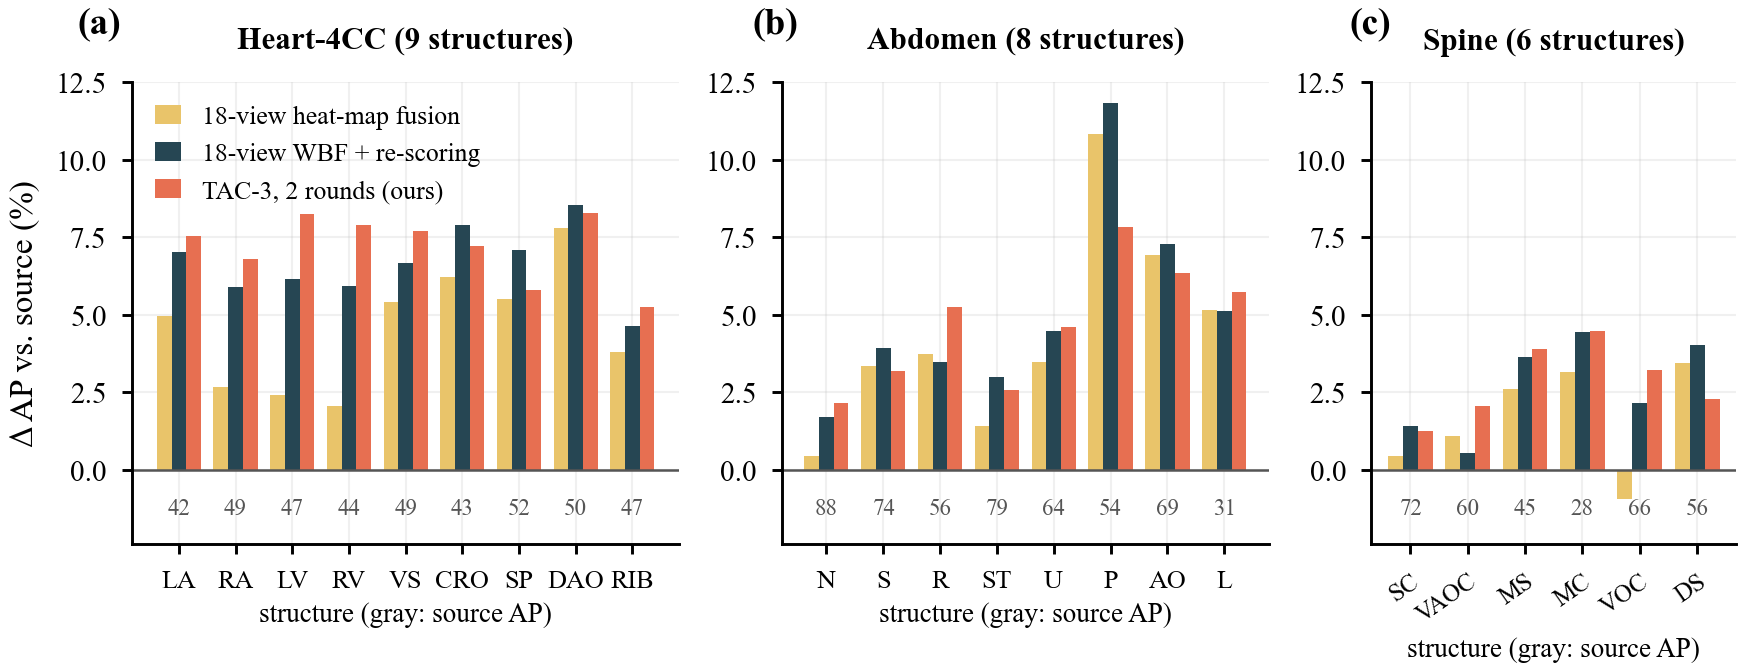
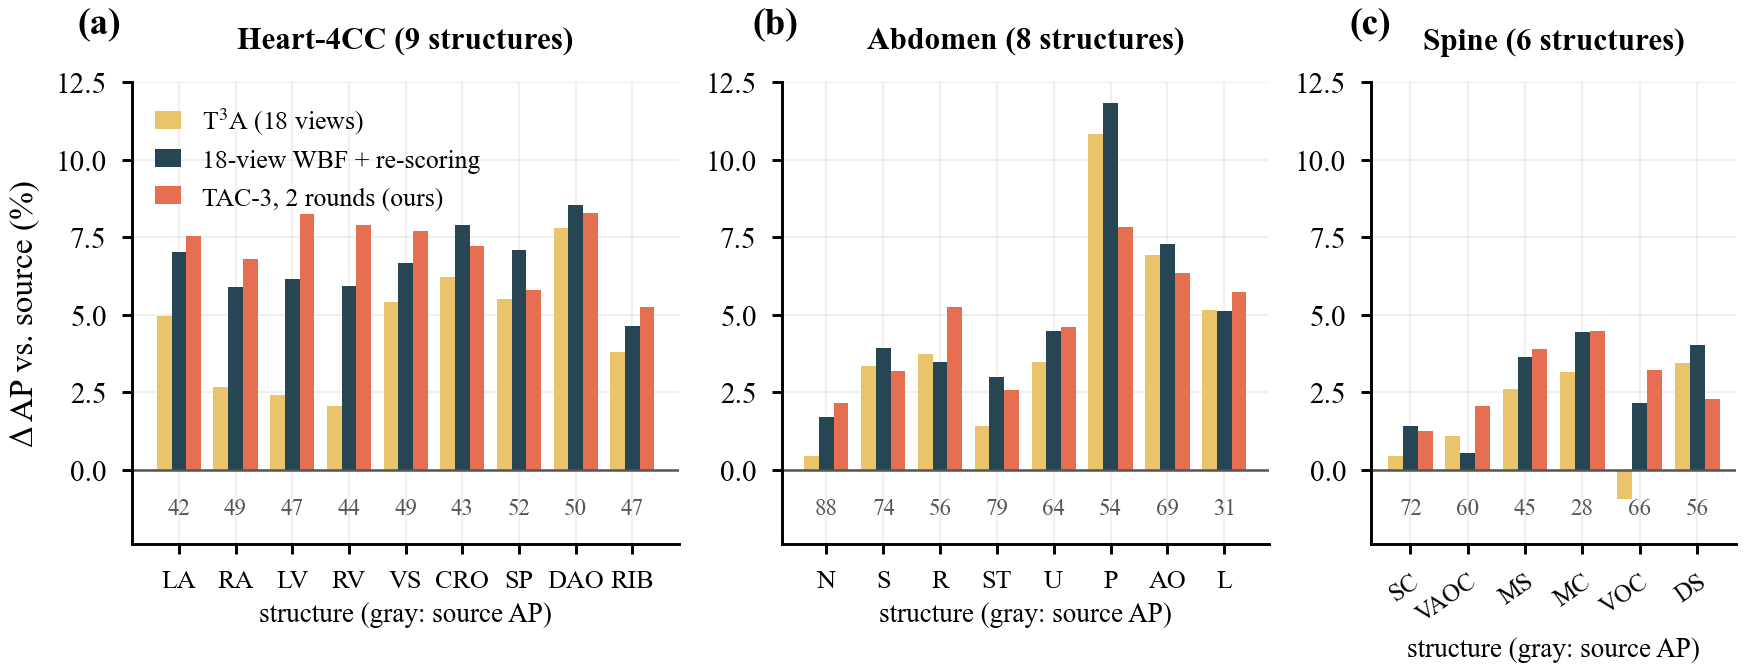
Cite the 18-view heat-map fusion baseline as T^3A
The Gaussian heat-map fusion used as a reference method is published as T^3A
(Pu et al., AAAI 2026). Table rows, figure legends, the README file list, the
NOTICE paragraph on baselines and two code comments now name it accordingly.
Figures 4-6 and eight table bodies are regenerated; only their labels change.

Changed region(s): [[0.0928, 0.149, 0.2785, 0.3279]]

diff --git a/paper_figures/gen_tables.py b/paper_figures/gen_tables.py
@@ -74,7 +74,7 @@ MAIN = [  # (row name in QC, label, views/updates, group)
     ("O-SFDA", "O-SFDA data acq.~\\cite{shi2024osfda}", "1 + train", "single"),
     ("VLOD-TTA objective", "VLOD-TTA objective~\\cite{belal2026vlod}", "1 + 1 step", "single"),
     ("BufferTTA", "BufferTTA~\\cite{kim2025buffer}", "1 + train", "single"),
-    ("Senior heatmap fusion (18 views)", "18-view heat-map fusion", "18", "multi"),
+    ("Senior heatmap fusion (18 views)", "T$^3$A~\\cite{pu2026t3a}", "18", "multi"),
     ("18-view WBF", "18-view WBF~\\cite{solovyev2021wbf}", "18", "multi"),
     ("18-view WBF + AR", "18-view WBF + re-scoring", "18", "multi"),
     ("CoTTA-det", "CoTTA-det~\\cite{wang2022cotta}", "18 + train", "multi"),
@@ -132,7 +132,7 @@ OTH = [
     ("O-SFDA data acq.~\\cite{shi2024osfda}", "1 + train", None, "O-SFDA", "O-SFDA"),
     ("VLOD-TTA objective~\\cite{belal2026vlod}", "1 + 1 step", None, "VLOD-TTA objective", "VLOD-TTA objective"),
     ("BufferTTA~\\cite{kim2025buffer}", "1 + train", None, "BufferTTA", "BufferTTA"),
-    ("18-view heat-map fusion", "18", "Senior heatmap fusion (18 views)", "Senior heatmap fusion (18 views)", "Senior heatmap fusion (18 views)"),
+    ("T$^3$A~\\cite{pu2026t3a}", "18", "Senior heatmap fusion (18 views)", "Senior heatmap fusion (18 views)", "Senior heatmap fusion (18 views)"),
     ("18-view WBF~\\cite{solovyev2021wbf}", "18", "18-view WBF", "18-view WBF", "18-view WBF"),
     ("18-view WBF + re-scoring", "18", "18-view WBF + AR", "18-view WBF + AR", "18-view WBF + AR"),
     ("CoTTA-det~\\cite{wang2022cotta}", "18 + train", "CoTTA-det", "CoTTA-det", "CoTTA-det"),
@@ -223,11 +223,11 @@ for T, name in [(R, "heart"), (RT, "rt"), (AB, "abdomen"), (SP, "spine")]:
 
 # ------------------------------------------------------------------ Table: fusion rule / views (test) + val ablations (seed 42)
 L = []
-for key, lab in [("TAC canonical view only (no fusion)", "canonical view only (no fusion)"), ("TAC fusion=heatmap (3 views)", "Gaussian heat-map fusion"), ("TAC fusion=NMS (3 views)", "concatenation + class-wise NMS"), ("TAC (WBF, 3 views)", "weighted boxes fusion (default)")]:
+for key, lab in [("TAC canonical view only (no fusion)", "canonical view only (no fusion)"), ("TAC fusion=heatmap (3 views)", "heat-map fusion of T$^3$A"), ("TAC fusion=NMS (3 views)", "concatenation + class-wise NMS"), ("TAC (WBF, 3 views)", "weighted boxes fusion (default)")]:
     r = F[key]; L.append(f"{lab} & 3 & {fmt(r['mean'], r['std'])} & {r['ap50']:.2f} & {'--' if 'WBF' in key else delta(r, F['TAC (WBF, 3 views)'])} \\\\")
     NUM[f"fusion::{key}"] = [r["mean"], r["std"], *paired(r, F["TAC (WBF, 3 views)"])]
 L.append("\\midrule")
-for key, lab in [("TAC 2 views (no flip)", "pass 1 + canonical view (no flip)"), ("TAC (WBF, 3 views)", "TAC-3"), ("TAC 7 views (+-15% scales)", "\\quad fixed bracket $\\pm15\\%$ (control)"), ("TAC 11 views (+-10/20/25% scales)", "TAC-11 ($-$20/$-$10/$+$10/$+$25\\%)"), ("18-view WBF + AR", "18-view WBF + re-scoring"), ("18-view heatmap (senior)", "18-view heat-map fusion")]:
+for key, lab in [("TAC 2 views (no flip)", "pass 1 + canonical view (no flip)"), ("TAC (WBF, 3 views)", "TAC-3"), ("TAC 7 views (+-15% scales)", "\\quad fixed bracket $\\pm15\\%$ (control)"), ("TAC 11 views (+-10/20/25% scales)", "TAC-11 ($-$20/$-$10/$+$10/$+$25\\%)"), ("18-view WBF + AR", "18-view WBF + re-scoring"), ("18-view heatmap (senior)", "T$^3$A~\\cite{pu2026t3a}")]:
     r = F[key]; v = r["views"] if r["views"] else 18
     L.append(f"{lab} & {v:.0f} & {fmt(r['mean'], r['std'])} & {r['ap50']:.2f} & {'--' if key == 'TAC (WBF, 3 views)' else delta(r, F['TAC (WBF, 3 views)'])} \\\\")
     NUM[f"views::{key}"] = [r["mean"], r["std"], r["ap50"], *paired(r, F["TAC (WBF, 3 views)"])]

diff --git a/paper_figures/gen_tables_reviewer.py b/paper_figures/gen_tables_reviewer.py
@@ -92,7 +92,7 @@ _BL = [("blind: 3 scales \\{600, 800, 1000\\}, WBF", "ss_fix3_wbf", "tac", None,
        ("blind: 3 scales $\\times$ flip, WBF + re-scoring", "ss_fix3f_wbf_ar", "u7_k17", None, 7),
        ("blind: 7 scales \\{500--1200\\}, WBF", "ss_fix7_wbf", "u7_k17", None, 7), ("blind: 7 scales, WBF + re-scoring", "ss_fix7_wbf_ar", "u7_k17", "blind7_ar", 7),
        ("TAC-7 (ours)", "u7_k17", None, "tac7", 7), ("TAC-11 (ours)", "tac_v11", None, "tac11", 18),
-       ("18-view WBF + re-scoring", "ss_all_flip_wbf_ar", None, "wbf18_ar", 18), ("18-view heat-map fusion", "heatmap18", None, "heatmap18", 18)]
+       ("18-view WBF + re-scoring", "ss_all_flip_wbf_ar", None, "wbf18_ar", 18), ("T$^3$A~\\cite{pu2026t3a}", "heatmap18", None, "heatmap18", 18)]
 _bb = {}
 for blk in (3, 7, 18):
     idx = [i for i, row in enumerate(_BL) if row[4] == blk]
@@ -183,7 +183,7 @@ for d, b in BOOT.items():
     # the seven-view configuration reported as TAC-7 is the quadrature bracket (tac7q) where its
     # bootstrap has been run, and the fixed bracket (tac7) otherwise
     _p7 = (lambda ref: ("tac7q-" + ref) if ("tac7q-" + ref) in b["bootstrap"] else ("tac7-" + ref))
-    for key, lab in [(_p7("source"), "TAC-7 vs.\\ source"), (_p7("heatmap18"), "TAC-7 vs.\\ HM-18"), (_p7("wbf18_ar"), "TAC-7 vs.\\ WBF-18+RS"), (_p7("cotta"), "TAC-7 vs.\\ CoTTA-det"), ("tac3_2r-wbf18_ar", "TAC-3 (2r) vs.\\ WBF-18+RS"), ("tac3_2r-cotta", "TAC-3 (2r) vs.\\ CoTTA-det")]:
+    for key, lab in [(_p7("source"), "TAC-7 vs.\\ source"), (_p7("heatmap18"), "TAC-7 vs.\\ T$^3$A"), (_p7("wbf18_ar"), "TAC-7 vs.\\ WBF-18+RS"), (_p7("cotta"), "TAC-7 vs.\\ CoTTA-det"), ("tac3_2r-wbf18_ar", "TAC-3 (2r) vs.\\ WBF-18+RS"), ("tac3_2r-cotta", "TAC-3 (2r) vs.\\ CoTTA-det")]:
         v = b["bootstrap"][key]; x, y = key.split("-"); dd = b["dedup_ap"]
         L.append(f"{lab} & ${v['point']:+.2f}$ & $[{v['ci95'][0]:+.2f}, {v['ci95'][1]:+.2f}]$ & ${dd[x]['dedup_mean'] - dd[y]['dedup_mean']:+.2f}$ & {('<0.001' if v['p_le_0'] < 0.001 else format(v['p_le_0'], '.3f'))} \\\\")
         NUM[f"boot::{d}::{key}"] = {**v, "dedup_diff": dd[x]["dedup_mean"] - dd[y]["dedup_mean"], "per_dir": None}

diff --git a/paper_figures/gen_fig5_fusion.py b/paper_figures/gen_fig5_fusion.py
@@ -12,7 +12,7 @@ gs = fig.add_gridspec(1, 3, width_ratios=[1.15, 1.0, 1.85], wspace=0.35)
 
 # (a) fusion rule
 ax = fig.add_subplot(gs[0])
-items = [("TAC canonical view only (no fusion)", "no\nfusion"), ("TAC fusion=heatmap (3 views)", "heat-\nmap"), ("TAC fusion=NMS (3 views)", "NMS"), ("TAC (WBF, 3 views)", "WBF\n(ours)"), ("18-view heatmap (senior)", "18-view\nheat-\nmap")]
+items = [("TAC canonical view only (no fusion)", "no\nfusion"), ("TAC fusion=heatmap (3 views)", "heat-\nmap"), ("TAC fusion=NMS (3 views)", "NMS"), ("TAC (WBF, 3 views)", "WBF\n(ours)"), ("18-view heatmap (senior)", "T$^3$A,\n18\nviews")]
 vals = [R[k]["mean"] for k, _ in items]; err = [R[k]["std"] for k, _ in items]
 cols = [BASE, BASE, BASE, OURS, C["gold"]]
 b = ax.bar(range(5), vals, 0.62, color=cols, yerr=err, error_kw=dict(lw=0.6, capsize=2, ecolor=C["ink2"]))
@@ -29,7 +29,7 @@ ax = fig.add_subplot(gs[1])
 pts = [("TAC 2 views (no flip)", 2), ("TAC (WBF, 3 views)", 3), ("TAC 7 views (+-15% scales)", 7), ("TAC 11 views (+-10/20/25% scales)", 11)]
 xs = [v for _, v in pts]; ys = [R[k]["mean"] for k, _ in pts]; es = [R[k]["std"] for k, _ in pts]
 ax.errorbar(xs, ys, yerr=es, color=OURS, marker="o", ms=4.5, lw=1.2, capsize=2, elinewidth=0.6, label="TAC (ours)", zorder=4)
-for k, lab, col, mk in [("18-view WBF + AR", "18-view WBF + re-scoring", C["teal"], "H"), ("18-view WBF", "18-view WBF", C["teal"], "p"), ("18-view heatmap (senior)", "18-view heat-map", C["gold"], "h")]:
+for k, lab, col, mk in [("18-view WBF + AR", "18-view WBF + re-scoring", C["teal"], "H"), ("18-view WBF", "18-view WBF", C["teal"], "p"), ("18-view heatmap (senior)", "T$^3$A (18 views)", C["gold"], "h")]:
     ax.errorbar(18, R[k]["mean"], yerr=R[k]["std"], color=col, marker=mk, ms=5, ls="none", capsize=2, elinewidth=0.6, label=lab, mfc=col if "AR" in k or "heat" in k else "white")
 # blind fixed multi-scale ensembles with the same number of views (reviewer experiment C; results/reviewer/reviewer_summary.json)
 import json as _json, os as _os

diff --git a/paper_figures/tables/tab_bootstrap.tex b/paper_figures/tables/tab_bootstrap.tex
@@ -1,20 +1,20 @@
 \multicolumn{5}{l}{\textit{Heart-4CC (545 clusters / 576 images)}}\\
 TAC-7 vs.\ source & $+8.22$ & $[+7.74, +8.68]$ & $+8.26$ & <0.001 \\
-TAC-7 vs.\ HM-18 & $+3.68$ & $[+3.28, +4.03]$ & $+3.66$ & <0.001 \\
+TAC-7 vs.\ T$^3$A & $+3.68$ & $[+3.28, +4.03]$ & $+3.66$ & <0.001 \\
 TAC-7 vs.\ WBF-18+RS & $+1.58$ & $[+1.20, +1.90]$ & $+1.59$ & <0.001 \\
 TAC-7 vs.\ CoTTA-det & $+2.33$ & $[+1.99, +2.65]$ & $+2.33$ & <0.001 \\
 TAC-3 (2r) vs.\ WBF-18+RS & $+0.55$ & $[+0.16, +0.84]$ & $+0.56$ & 0.004 \\
 TAC-3 (2r) vs.\ CoTTA-det & $+1.30$ & $[+0.96, +1.61]$ & $+1.30$ & <0.001 \\
 \multicolumn{5}{l}{\textit{Abdomen (811 clusters / 813 images)}}\\
 TAC-7 vs.\ source & $+5.78$ & $[+5.36, +6.09]$ & $+5.78$ & <0.001 \\
-TAC-7 vs.\ HM-18 & $+1.36$ & $[+1.07, +1.63]$ & $+1.36$ & <0.001 \\
+TAC-7 vs.\ T$^3$A & $+1.36$ & $[+1.07, +1.63]$ & $+1.36$ & <0.001 \\
 TAC-7 vs.\ WBF-18+RS & $+0.68$ & $[+0.42, +0.94]$ & $+0.67$ & <0.001 \\
 TAC-7 vs.\ CoTTA-det & $+0.51$ & $[+0.29, +0.79]$ & $+0.51$ & 0.001 \\
 TAC-3 (2r) vs.\ WBF-18+RS & $-0.39$ & $[-0.67, -0.09]$ & $-0.40$ & 0.997 \\
 TAC-3 (2r) vs.\ CoTTA-det & $-0.56$ & $[-0.80, -0.25]$ & $-0.56$ & 1.000 \\
 \multicolumn{5}{l}{\textit{Spine (917 clusters / 920 images)}}\\
 TAC-7 vs.\ source & $+3.71$ & $[+3.43, +3.97]$ & $+3.70$ & <0.001 \\
-TAC-7 vs.\ HM-18 & $+2.08$ & $[+1.74, +2.28]$ & $+2.07$ & <0.001 \\
+TAC-7 vs.\ T$^3$A & $+2.08$ & $[+1.74, +2.28]$ & $+2.07$ & <0.001 \\
 TAC-7 vs.\ WBF-18+RS & $+1.02$ & $[+0.74, +1.22]$ & $+1.01$ & <0.001 \\
 TAC-7 vs.\ CoTTA-det & $+0.97$ & $[+0.71, +1.18]$ & $+0.95$ & <0.001 \\
 TAC-3 (2r) vs.\ WBF-18+RS & $+0.18$ & $[-0.11, +0.42]$ & $+0.17$ & 0.138 \\

diff --git a/paper_figures/tables/tab_other.tex b/paper_figures/tables/tab_other.tex
@@ -9,7 +9,7 @@ O-SFDA data acq.~\cite{shi2024osfda} & 1 + train & \multicolumn{3}{c}{n/a} & 64.
 VLOD-TTA objective~\cite{belal2026vlod} & 1 + 1 step & \multicolumn{3}{c}{n/a} & 63.05\,$\pm$\,0.49 & 86.57 & $-1.20$\,$\pm$\,1.02$^{*}$ & 52.46\,$\pm$\,0.27 & 88.30 & $-2.22$\,$\pm$\,0.69$^{*}$ \\
 BufferTTA~\cite{kim2025buffer} & 1 + train & \multicolumn{3}{c}{n/a} & 63.56\,$\pm$\,0.33 & 85.85 & $-0.69$\,$\pm$\,0.21$^{*}$ & 53.37\,$\pm$\,0.19 & 88.57 & $-1.31$\,$\pm$\,0.48$^{*}$ \\
 \midrule
-18-view heat-map fusion & 18 & 44.39\,$\pm$\,0.17 & 81.22 & $+2.15$\,$\pm$\,0.47$^{*}$ & 68.66\,$\pm$\,0.30 & 89.84 & $+4.41$\,$\pm$\,0.27$^{*}$ & 56.31\,$\pm$\,0.13 & 90.91 & $+1.63$\,$\pm$\,0.63$^{*}$ \\
+T$^3$A~\cite{pu2026t3a} & 18 & 44.39\,$\pm$\,0.17 & 81.22 & $+2.15$\,$\pm$\,0.47$^{*}$ & 68.66\,$\pm$\,0.30 & 89.84 & $+4.41$\,$\pm$\,0.27$^{*}$ & 56.31\,$\pm$\,0.13 & 90.91 & $+1.63$\,$\pm$\,0.63$^{*}$ \\
 18-view WBF~\cite{solovyev2021wbf} & 18 & 48.31\,$\pm$\,0.09 & 83.55 & $+6.07$\,$\pm$\,0.30$^{*}$ & 69.25\,$\pm$\,0.21 & 90.15 & $+5.00$\,$\pm$\,0.89$^{*}$ & 57.32\,$\pm$\,0.18 & 91.33 & $+2.65$\,$\pm$\,0.23$^{*}$ \\
 18-view WBF + re-scoring & 18 & 49.10\,$\pm$\,0.06 & 85.35 & $+6.86$\,$\pm$\,0.27$^{*}$ & 69.35\,$\pm$\,0.22 & 90.31 & $+5.10$\,$\pm$\,0.89$^{*}$ & 57.36\,$\pm$\,0.18 & 91.47 & $+2.69$\,$\pm$\,0.23$^{*}$ \\
 CoTTA-det~\cite{wang2022cotta} & 18 + train & 48.06\,$\pm$\,0.06 & 83.00 & $+5.82$\,$\pm$\,0.30$^{*}$ & 69.51\,$\pm$\,0.17 & 90.34 & $+5.26$\,$\pm$\,0.62$^{*}$ & 57.42\,$\pm$\,0.16 & 91.61 & $+2.74$\,$\pm$\,0.32$^{*}$ \\

diff --git a/paper_figures/tables/tab_main_heart.tex b/paper_figures/tables/tab_main_heart.tex
@@ -9,7 +9,7 @@ O-SFDA data acq.~\cite{shi2024osfda} & 1 + train & 34.9 & 45.4 & 56.4 & 56.4 & 5
 VLOD-TTA objective~\cite{belal2026vlod} & 1 + 1 step & 34.9 & 45.2 & 56.4 & 56.1 & 52.2 & 39.5 & 47.38\,$\pm$\,0.02 & 81.41 & $+0.39$\,$\pm$\,0.83 \\
 BufferTTA~\cite{kim2025buffer} & 1 + train & 32.3 & 43.4 & 48.2 & 54.9 & 51.7 & 36.2 & 44.44\,$\pm$\,0.73 & 75.90 & $-2.55$\,$\pm$\,2.03$^{*}$ \\
 \midrule
-18-view heat-map fusion & 18 & 38.6 & 48.8 & 59.9 & 59.5 & 57.1 & 45.2 & 51.53\,$\pm$\,0.19 & 86.12 & $+4.54$\,$\pm$\,0.21$^{*}$ \\
+T$^3$A~\cite{pu2026t3a} & 18 & 38.6 & 48.8 & 59.9 & 59.5 & 57.1 & 45.2 & 51.53\,$\pm$\,0.19 & 86.12 & $+4.54$\,$\pm$\,0.21$^{*}$ \\
 18-view WBF~\cite{solovyev2021wbf} & 18 & 41.2 & 49.7 & 60.7 & 59.3 & 59.5 & 48.9 & 53.21\,$\pm$\,0.14 & 87.83 & $+6.22$\,$\pm$\,0.38$^{*}$ \\
 18-view WBF + re-scoring & 18 & 42.2 & 50.5 & \textbf{60.7} & 59.3 & 59.6 & 49.4 & 53.63\,$\pm$\,0.16 & 88.72 & $+6.64$\,$\pm$\,0.33$^{*}$ \\
 CoTTA-det~\cite{wang2022cotta} & 18 + train & 41.0 & 50.7 & 60.4 & 60.2 & 57.8 & 47.2 & 52.88\,$\pm$\,0.17 & 87.32 & $+5.89$\,$\pm$\,0.26$^{*}$ \\

diff --git a/paper_figures/gen_fig4_cost.py b/paper_figures/gen_fig4_cost.py
@@ -13,7 +13,7 @@ SPEC = [
     ("IoU-Filter", "IoU-Filter", 1, "s", C["gray"], True), ("AMROD", "AMROD", 1, "^", C["gray"], True), ("WHW", "WHW", 1, "v", C["gray"], True),
     ("CD-Buffer", "CD-Buffer", 1, "D", C["gray"], True), ("SGP", "SGP", 1, "P", C["gray"], True), ("O-SFDA", "O-SFDA", 1, "X", C["gray"], True),
     ("VLOD-TTA objective", "VLOD-TTA", 1, "<", C["gray"], True), ("BufferTTA", "BufferTTA", 1, ">", C["gray"], True),
-    ("Senior heatmap fusion (18 views)", "18-view heat-map fusion", 18, "h", C["gold"], False),
+    ("Senior heatmap fusion (18 views)", "T$^3$A (18 views)", 18, "h", C["gold"], False),
     ("18-view WBF", "18-view WBF", 18, "p", C["teal"], False), ("18-view WBF + AR", "18-view WBF + re-scoring", 18, "H", C["teal"], False),
     ("CoTTA-det", "CoTTA-det (18 views + training)", 18, "d", C["blue"], True),
     ("TAC-light", "TAC-3 (ours)", 3.0, "o", OURS, False), ("TAC (2 rounds)", "TAC-3, 2 rounds (ours)", None, "o", OURS, False), ("TAC 7 views (quadrature)", "TAC-7 (ours)", 7.0, "*", OURS, False),

diff --git a/paper_figures/tables/tab_dirs_spine.tex b/paper_figures/tables/tab_dirs_spine.tex
@@ -7,7 +7,7 @@ SGP~\cite{wang2025sgp} & 1 + train & 53.7 & 53.8 & 55.5 & 52.2 & 57.0 & 56.3 & 5
 O-SFDA data acq.~\cite{shi2024osfda} & 1 + train & 55.1 & 54.3 & 54.4 & 52.6 & 57.1 & 56.4 & 54.98\,$\pm$\,0.19 & 90.34 \\
 VLOD-TTA objective~\cite{belal2026vlod} & 1 + 1 step & 54.8 & 53.9 & 48.1 & 51.8 & 50.1 & 56.1 & 52.46\,$\pm$\,0.27 & 88.30 \\
 BufferTTA~\cite{kim2025buffer} & 1 + train & 54.1 & 52.7 & 53.3 & 48.6 & 56.2 & 55.2 & 53.37\,$\pm$\,0.19 & 88.57 \\
-18-view heat-map fusion & 18 & 56.3 & 56.3 & 56.1 & 53.7 & 58.3 & 57.1 & 56.31\,$\pm$\,0.13 & 90.91 \\
+T$^3$A~\cite{pu2026t3a} & 18 & 56.3 & 56.3 & 56.1 & 53.7 & 58.3 & 57.1 & 56.31\,$\pm$\,0.13 & 90.91 \\
 18-view WBF~\cite{solovyev2021wbf} & 18 & 56.8 & 57.1 & 57.1 & 54.9 & 59.7 & 58.3 & 57.32\,$\pm$\,0.18 & 91.33 \\
 18-view WBF + re-scoring & 18 & 56.8 & 57.1 & 57.2 & 55.0 & 59.7 & 58.3 & 57.36\,$\pm$\,0.18 & 91.47 \\
 CoTTA-det~\cite{wang2022cotta} & 18 + train & 57.2 & 57.5 & 57.1 & 54.6 & \textbf{59.7} & 58.4 & 57.42\,$\pm$\,0.16 & 91.61 \\

diff --git a/paper_figures/tables/tab_fusion.tex b/paper_figures/tables/tab_fusion.tex
@@ -1,5 +1,5 @@
 canonical view only (no fusion) & 3 & 51.57\,$\pm$\,0.10 & 86.73 & $-2.19$\,$\pm$\,0.13$^{*}$ \\
-Gaussian heat-map fusion & 3 & 52.28\,$\pm$\,0.13 & 87.17 & $-1.48$\,$\pm$\,0.23$^{*}$ \\
+heat-map fusion of T$^3$A & 3 & 52.28\,$\pm$\,0.13 & 87.17 & $-1.48$\,$\pm$\,0.23$^{*}$ \\
 concatenation + class-wise NMS & 3 & 52.37\,$\pm$\,0.12 & 88.27 & $-1.39$\,$\pm$\,0.43$^{*}$ \\
 weighted boxes fusion (default) & 3 & 53.76\,$\pm$\,0.06 & 88.31 & -- \\
 \midrule
@@ -8,4 +8,4 @@ TAC-3 & 3 & 53.76\,$\pm$\,0.06 & 88.31 & -- \\
 \quad fixed bracket $\pm15\%$ (control) & 7 & 54.99\,$\pm$\,0.12 & 89.72 & $+1.23$\,$\pm$\,0.20$^{*}$ \\
 TAC-11 ($-$20/$-$10/$+$10/$+$25\%) & 11 & 55.34\,$\pm$\,0.12 & 90.12 & $+1.57$\,$\pm$\,0.19$^{*}$ \\
 18-view WBF + re-scoring & 18 & 53.63\,$\pm$\,0.16 & 88.72 & $-0.13$\,$\pm$\,0.32 \\
-18-view heat-map fusion & 18 & 51.53\,$\pm$\,0.19 & 86.12 & $-2.23$\,$\pm$\,0.40$^{*}$ \\
+T$^3$A~\cite{pu2026t3a} & 18 & 51.53\,$\pm$\,0.19 & 86.12 & $-2.23$\,$\pm$\,0.40$^{*}$ \\

diff --git a/paper_figures/tables/tab_dirs_abdomen.tex b/paper_figures/tables/tab_dirs_abdomen.tex
@@ -7,7 +7,7 @@ SGP~\cite{wang2025sgp} & 1 + train & 62.0 & 66.7 & 61.7 & 63.2 & 67.3 & 60.7 & 6
 O-SFDA data acq.~\cite{shi2024osfda} & 1 + train & 62.1 & 66.6 & 63.4 & 63.2 & 68.0 & 64.4 & 64.61\,$\pm$\,0.18 & 87.07 \\
 VLOD-TTA objective~\cite{belal2026vlod} & 1 + 1 step & 59.3 & 66.8 & 62.6 & 60.0 & 67.6 & 62.0 & 63.05\,$\pm$\,0.49 & 86.57 \\
 BufferTTA~\cite{kim2025buffer} & 1 + train & 61.4 & 65.8 & 62.0 & 62.2 & 66.8 & 63.2 & 63.56\,$\pm$\,0.33 & 85.85 \\
-18-view heat-map fusion & 18 & 66.7 & 71.5 & 67.2 & 67.1 & 71.9 & 67.5 & 68.66\,$\pm$\,0.30 & 89.84 \\
+T$^3$A~\cite{pu2026t3a} & 18 & 66.7 & 71.5 & 67.2 & 67.1 & 71.9 & 67.5 & 68.66\,$\pm$\,0.30 & 89.84 \\
 18-view WBF~\cite{solovyev2021wbf} & 18 & 67.5 & 71.8 & 67.3 & 67.1 & 73.3 & 68.4 & 69.25\,$\pm$\,0.21 & 90.15 \\
 18-view WBF + re-scoring & 18 & 67.7 & 71.9 & 67.5 & 67.2 & 73.3 & 68.5 & 69.35\,$\pm$\,0.22 & 90.31 \\
 CoTTA-det~\cite{wang2022cotta} & 18 + train & 67.2 & 72.0 & 68.2 & 67.9 & 73.4 & 68.3 & 69.51\,$\pm$\,0.17 & 90.34 \\

diff --git a/paper_figures/tables/tab_dirs_rt.tex b/paper_figures/tables/tab_dirs_rt.tex
@@ -1,6 +1,6 @@
 Source model (no adaptation) & 1 & 30.5 & 34.4 & 53.2 & 49.1 & 49.2 & 37.1 & 42.24\,$\pm$\,0.09 & 76.74 \\
 IoU-Filter~\cite{ruan2024ioufilter} & 1 + 5 upd. & 30.7 & 34.6 & 53.3 & 49.4 & 49.2 & 37.2 & 42.39\,$\pm$\,0.13 & 76.88 \\
-18-view heat-map fusion & 18 & 30.7 & 39.3 & 55.9 & 52.8 & 50.2 & 37.5 & 44.39\,$\pm$\,0.17 & 81.22 \\
+T$^3$A~\cite{pu2026t3a} & 18 & 30.7 & 39.3 & 55.9 & 52.8 & 50.2 & 37.5 & 44.39\,$\pm$\,0.17 & 81.22 \\
 18-view WBF~\cite{solovyev2021wbf} & 18 & 36.2 & 41.5 & 58.4 & 53.5 & 56.3 & 44.0 & 48.31\,$\pm$\,0.09 & 83.55 \\
 18-view WBF + re-scoring & 18 & 37.8 & 43.2 & \textbf{58.5} & 53.7 & 56.7 & 44.7 & 49.10\,$\pm$\,0.06 & 85.35 \\
 CoTTA-det~\cite{wang2022cotta} & 18 + train & 35.8 & 43.4 & 58.2 & 54.8 & 53.7 & 42.4 & 48.06\,$\pm$\,0.06 & 83.00 \\

diff --git a/adapteacher/engine/tta_canon.py b/adapteacher/engine/tta_canon.py
@@ -129,7 +129,7 @@ class CanonTTATrainer(BaselineTrainer):
             return u, v, int(m.sum()), float(np.sum(r)), float(1.0 / math.sqrt(den))   # Laplace posterior std of u at the MAP
 
         def fuse(views_out, H, W, w=None):
-            # fusion strategy ablation (Information Fusion): wbf (default) | nms (concatenate + class-wise NMS) | heatmap (senior's
+            # fusion strategy ablation (Information Fusion): wbf (default) | nms (concatenate + class-wise NMS) | heatmap (T^3A's
             # Gaussian heat-map fusion, fast implementation) | last (no fusion: only the first canonical view)
             if C.FUSION == "last" or len(views_out) == 1:
                 ob, sc, cl = views_out[-1] if C.FUSION == "last" else views_out[0]
